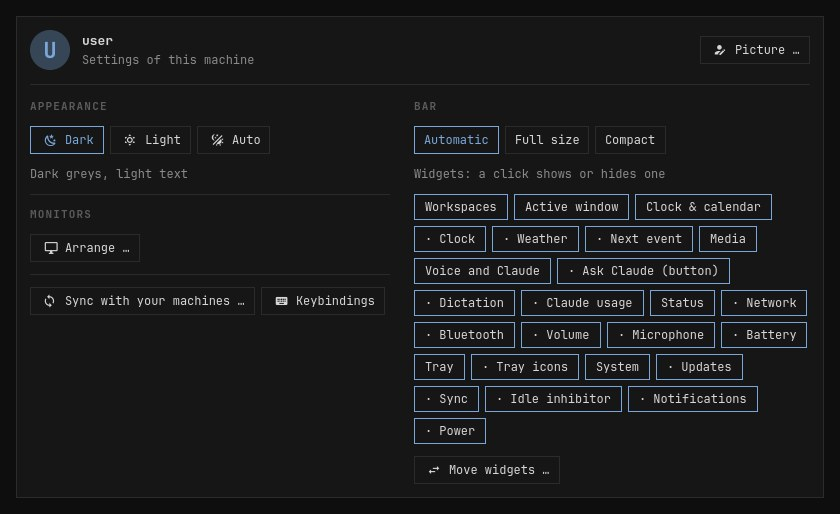
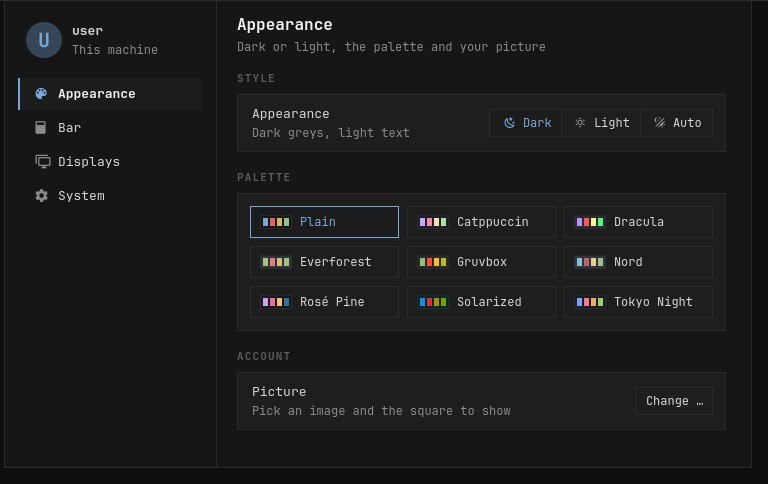
Update from dd2c7ee

diff --git a/README.md b/README.md
@@ -88,7 +88,7 @@ A new machine gets everything from two scripts.
 </tr>
 <tr>
 <td><img src="docs/img/theme-light.jpg" alt="The light look: btop, Ghostty and Nautilus"><br><sub>The light look.</sub></td>
-<td><img src="docs/img/settings.jpg" alt="The settings popup: dark, light or auto, the bar's size and widgets"><br><sub>Dark, light or with the sun, chosen in the settings.</sub></td>
+<td><img src="docs/img/settings.jpg" alt="The settings popup: pages on the left, dark, light or auto and the palettes on the right"><br><sub>Dark, light or with the sun, and the palette, chosen in the settings.</sub></td>
 </tr>
 </table>
 
